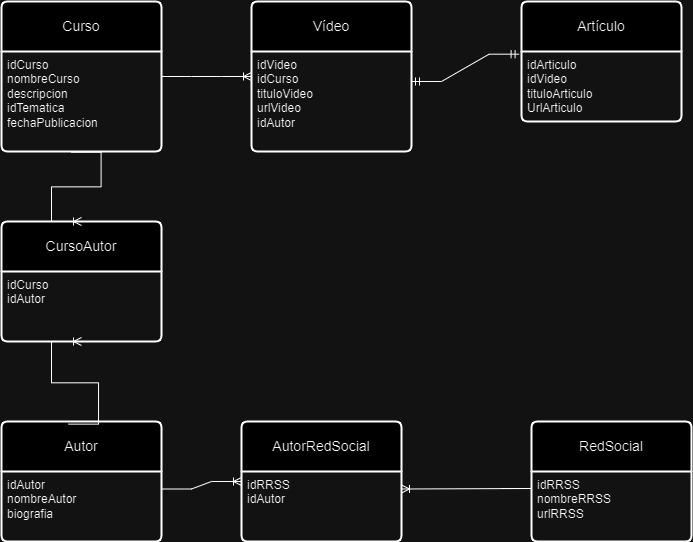
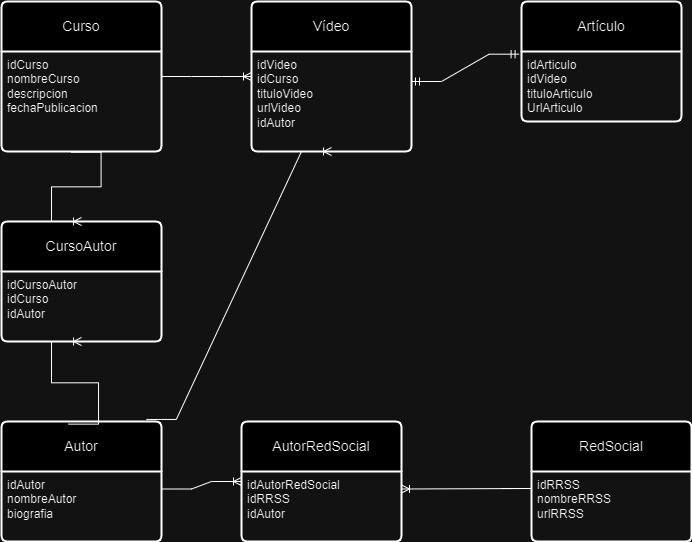
modeladoRelacionalOpcional hecho, falta readme

diff --git a/06-ModeladoRelacional/00-ModeladoBasico/README.md b/06-ModeladoRelacional/00-ModeladoBasico/README.md
@@ -6,3 +6,22 @@ Para los requisitos del caso básico, he planteado el siguiente modelo:
 
 ![CasoBásico](./content/ModeladoRelacional.jpg)
 
+· La tabla Curso tiene cuatro campos (idCurso, nombreCurso, descripcion y fechaPublicacion) y tiene una relación de uno a muchos con la entidad Vídeos. Un curso puede tener muchos vídeos pero un vídeo puede pertenecer a un solo curso.
+
+· La tabla Vídeo tiene cinco campos (idVideo, idCurso, tituloVideo, urlVideo, idAutor) y una relación de uno a uno con los artículos. Entiendo que cada vídeo tiene siempre un artículo, y un artículo sólo puede ir acompañando a un vídeo.
+
+· La tabla Artículo tiene cuatro campos (idArticulo, idVideo, tituloArticulo, urlArticulo).
+
+· La relación entre Curso y Autor es de muchos a muchos, ya que un curso puede tener muchos autores y un autor puede tener muchos cursos. Por eso, es necesario crear una tabla intermedia que se llame CursoAutor.
+
+· La tabla CursoAutor tiene tres campos (idCursoAutor, idCurso y idAutor). Tiene una relación de muchos a uno con la tabla Curso (un curso puede tener muchos autores) y una relación de muchos a uno con la tabla Autor (un autor puede tener muchos cursos).
+
+· La tabla Autor tiene tres campos (idAutor, nombreAutor y biografia). 
+
+· La relación entre la tabla Autor y la tabla RedSocial es de muchos a muchos, ya que un autor puede tener muchas redes sociales y una red social puede tener muchos autores. De nuevo, es necesario la creación de una tabla intermedia, en este caso, la tabla AutorRedSocial.
+
+· La tabla AutorRedSocial tiene tres campos (idAutorRedSocial, idAutor y idRRSS) y una relación de muchos a uno con la tabla Autor (una red social puede tener muchos autores) y de muchos a uno con la tabla RedSocial (un autor puede tener muchas redes sociales).
+
+· La tabla RedSocial tiene tres campos (idRRSS, nombreRRSS, urlRRSS).
+
+· Existe una relación uno a muchos entre la tabla Autor y la tabla Video. Un autor puede tener muchos vídeos pero un vídeo sólo puede tener un autor.
